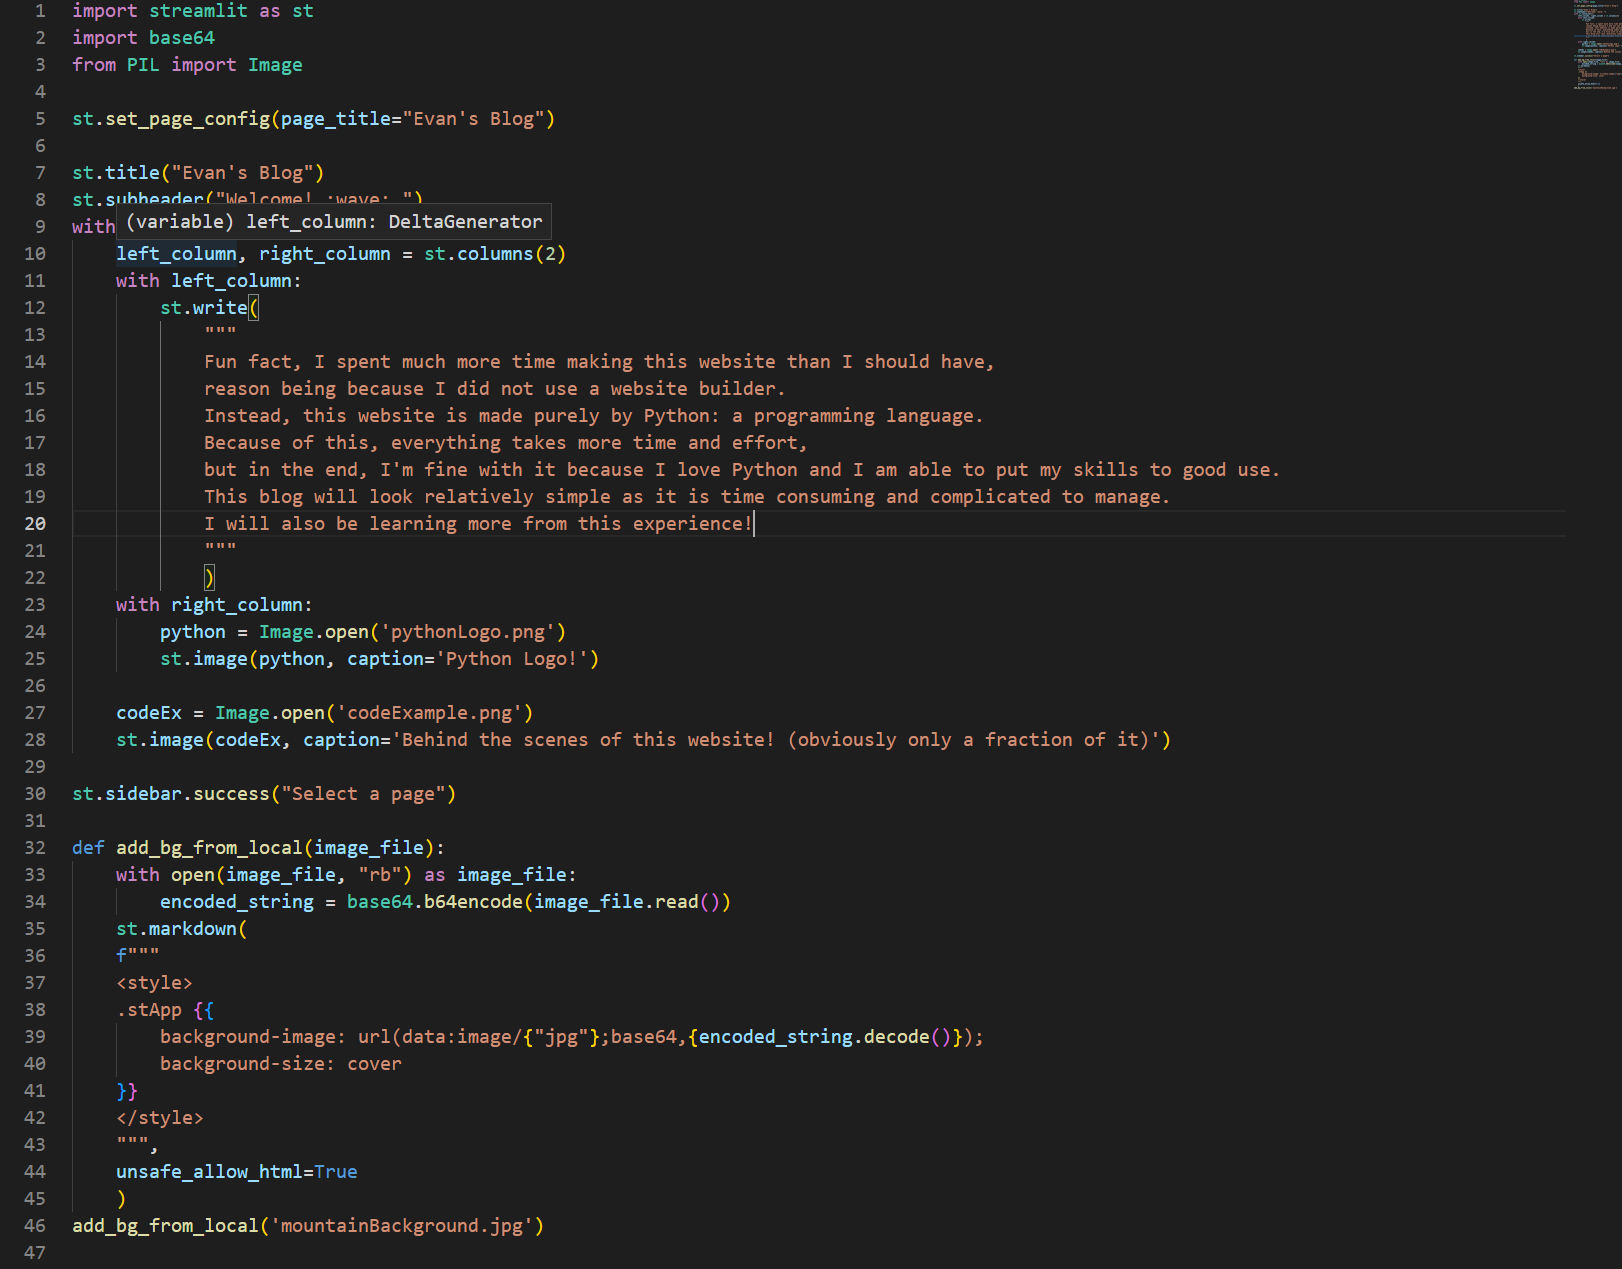
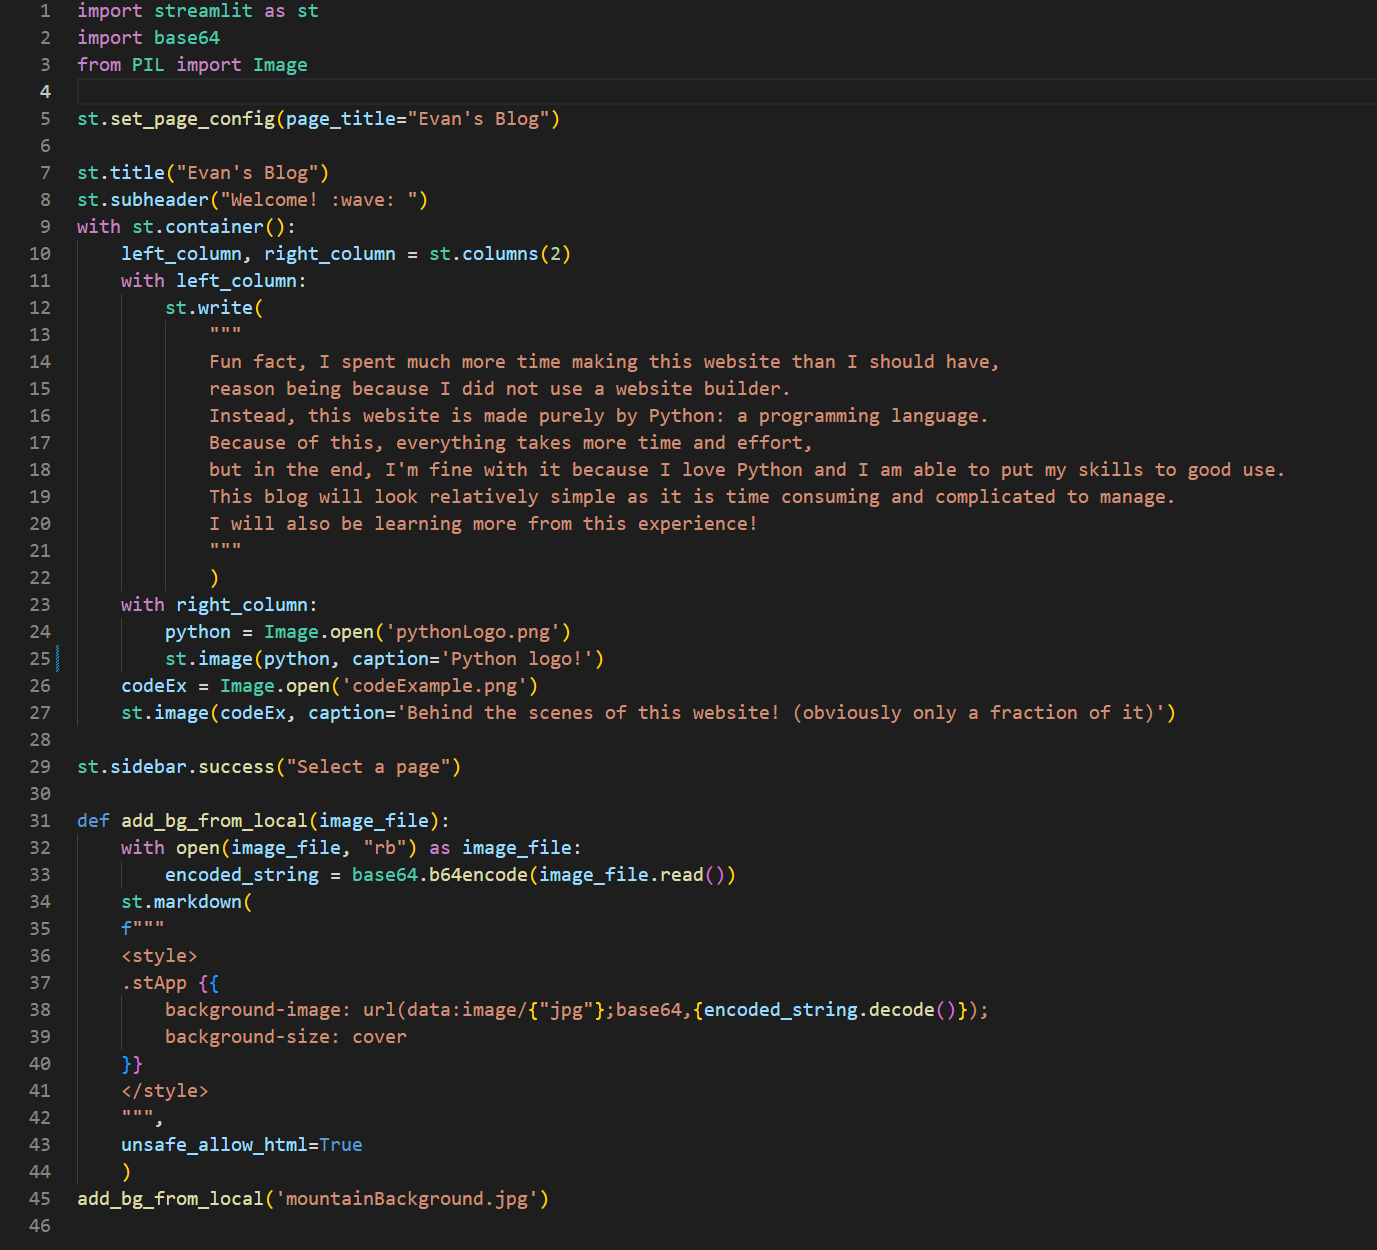
9/26/22 12:47am

diff --git a/homepage.py b/homepage.py
@@ -22,8 +22,7 @@ with st.container():
             )
     with right_column:
         python = Image.open('pythonLogo.png')
-        st.image(python, caption='Python Logo!')
-
+        st.image(python, caption='Python logo!')
     codeEx = Image.open('codeExample.png')
     st.image(codeEx, caption='Behind the scenes of this website! (obviously only a fraction of it)')
     
